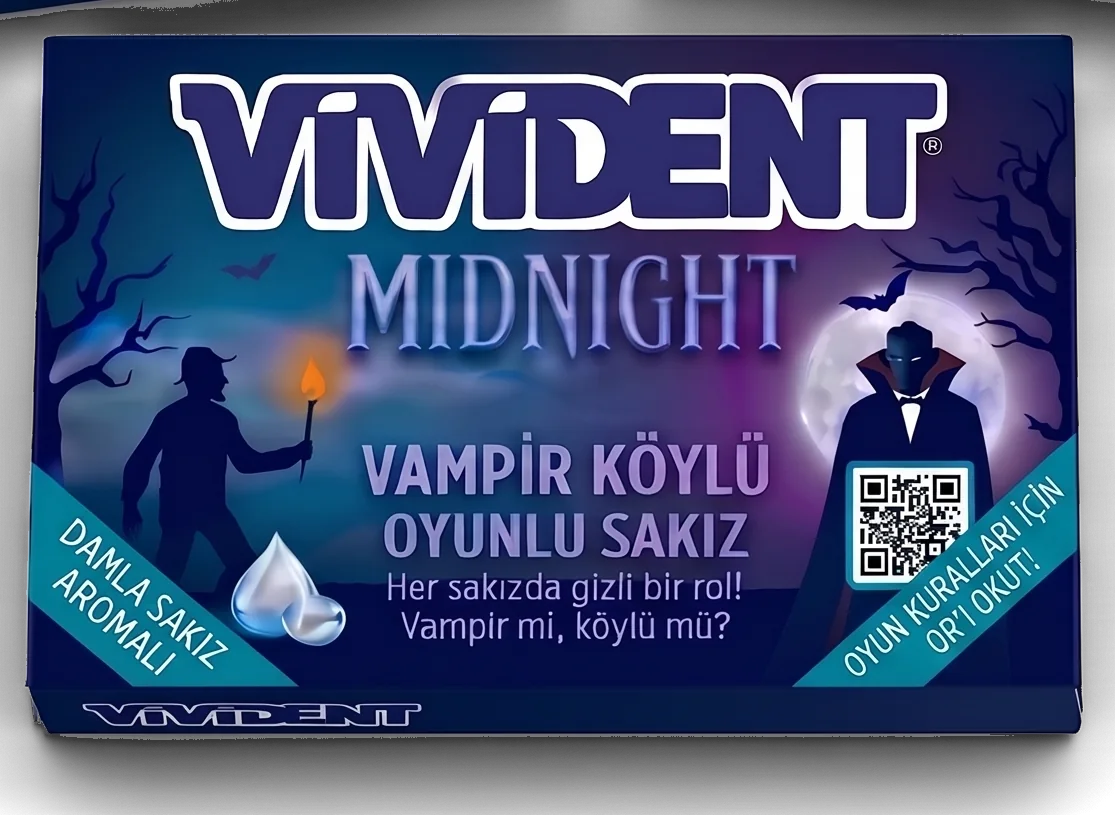
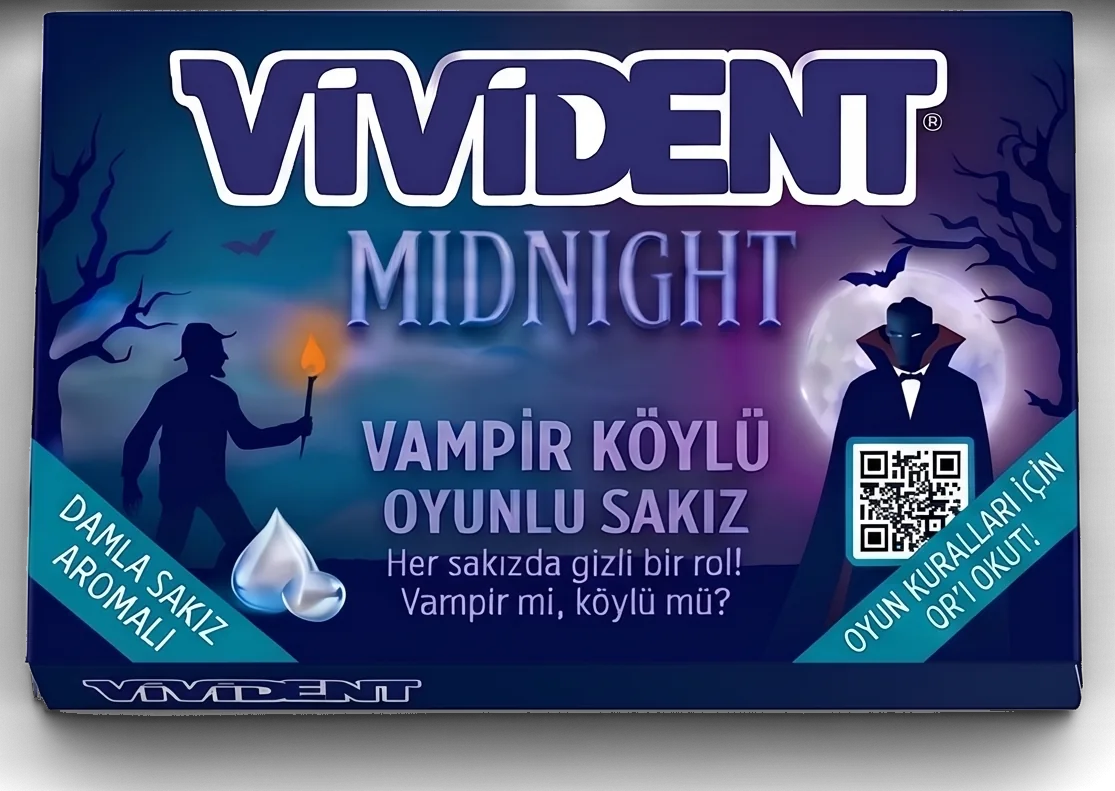
Çilek ve damla paket görsellerini temiz kes

Changed region(s): [[0.0, 0.0, 1.0, 0.9102], [0.0915, 0.4855, 0.1525, 0.6068], [0.183, 0.6068, 0.2135, 0.6372]]

diff --git a/index.html b/index.html
@@ -430,7 +430,7 @@
       <a class="btn btn-teal" href="#cek">Nasıl oynanır?</a>
     </div>
     <div class="hero-pack">
-      <img src="img/damla.webp" width="1115" height="815" alt="Vivident Midnight damla sakızı aromalı paket">
+      <img src="img/damla.webp" width="1115" height="791" alt="Vivident Midnight damla sakızı aromalı paket">
     </div>
   </div>
   <div class="corner br" style="background:var(--teal)">Arkadaşlarınla<br>oyna!</div>
@@ -575,7 +575,7 @@
       <div class="series">
         <figure><img src="img/nane.webp" width="900" height="696" alt="Vivident Midnight nane aromalı paket" loading="lazy"><figcaption><span style="background:#2f8a6a"></span>Nane aromalı</figcaption></figure>
         <figure><img src="img/cilek.webp" width="900" height="706" alt="Vivident Midnight çilek aromalı paket" loading="lazy"><figcaption><span style="background:#8a2a7a"></span>Çilek aromalı</figcaption></figure>
-        <figure><img src="img/damla.webp" width="1115" height="815" alt="Vivident Midnight damla sakızı aromalı paket" loading="lazy"><figcaption><span style="background:var(--teal)"></span>Damla sakızı aromalı</figcaption></figure>
+        <figure><img src="img/damla.webp" width="1115" height="791" alt="Vivident Midnight damla sakızı aromalı paket" loading="lazy"><figcaption><span style="background:var(--teal)"></span>Damla sakızı aromalı</figcaption></figure>
       </div>
     </div>
   </section>
